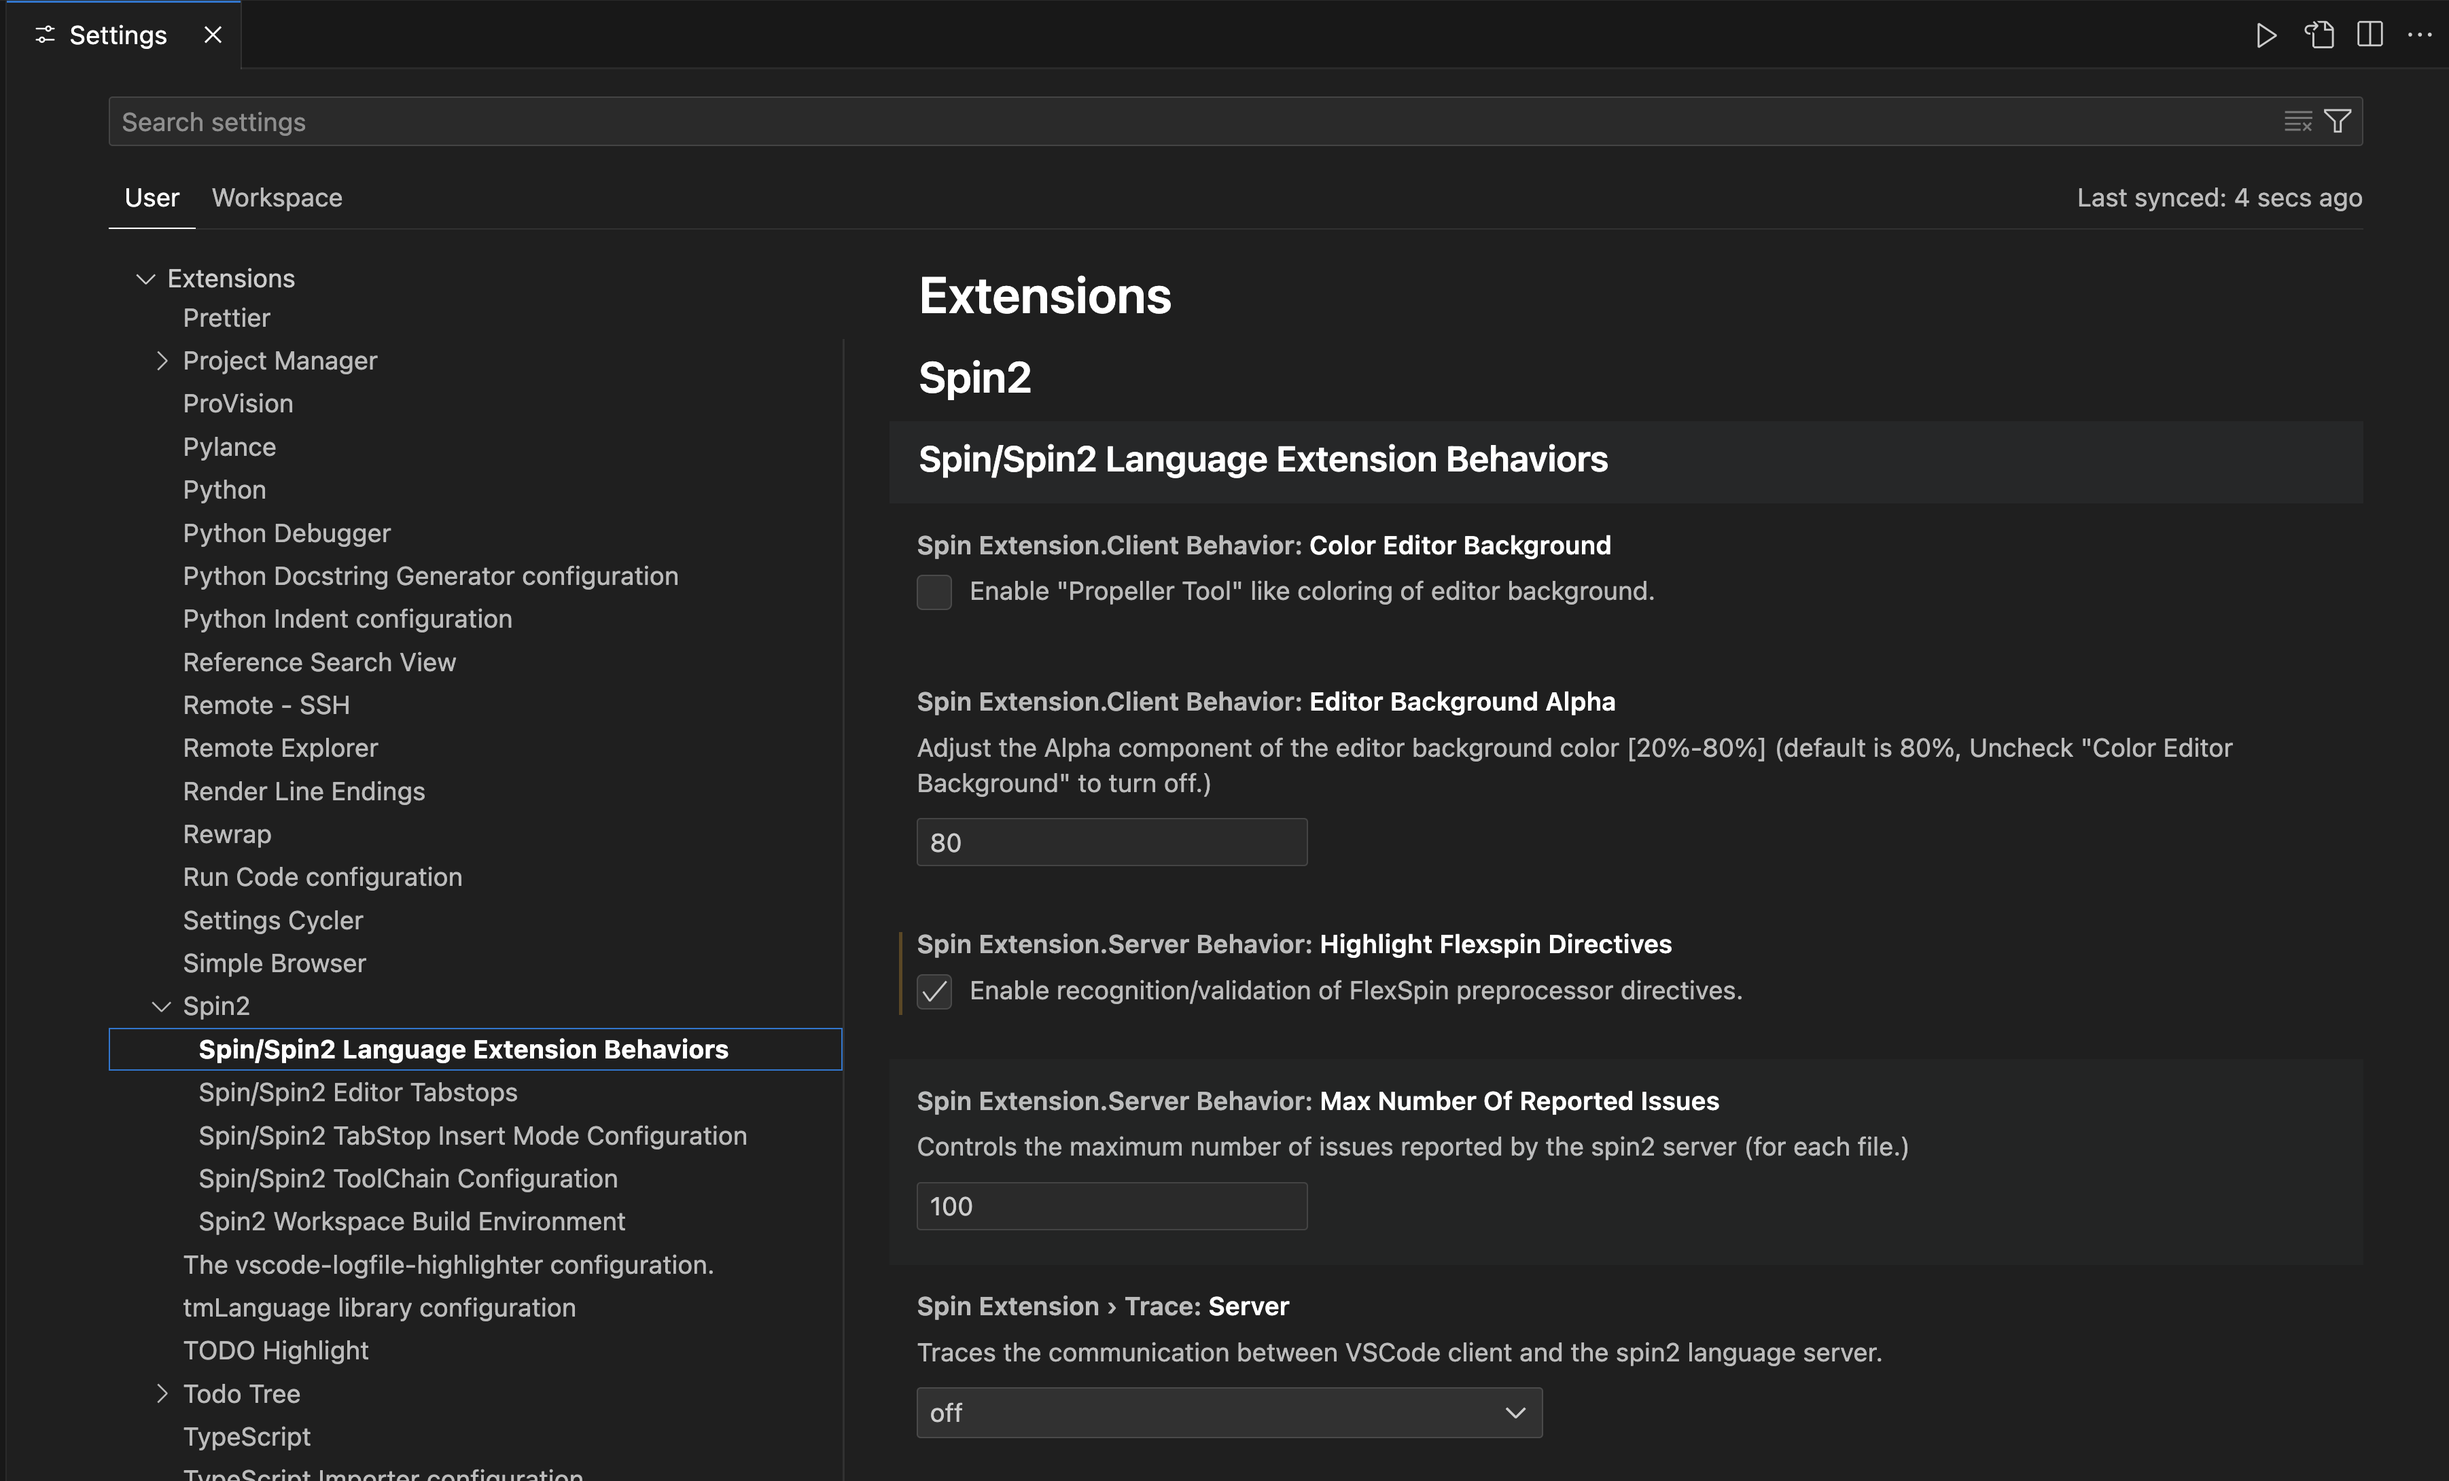
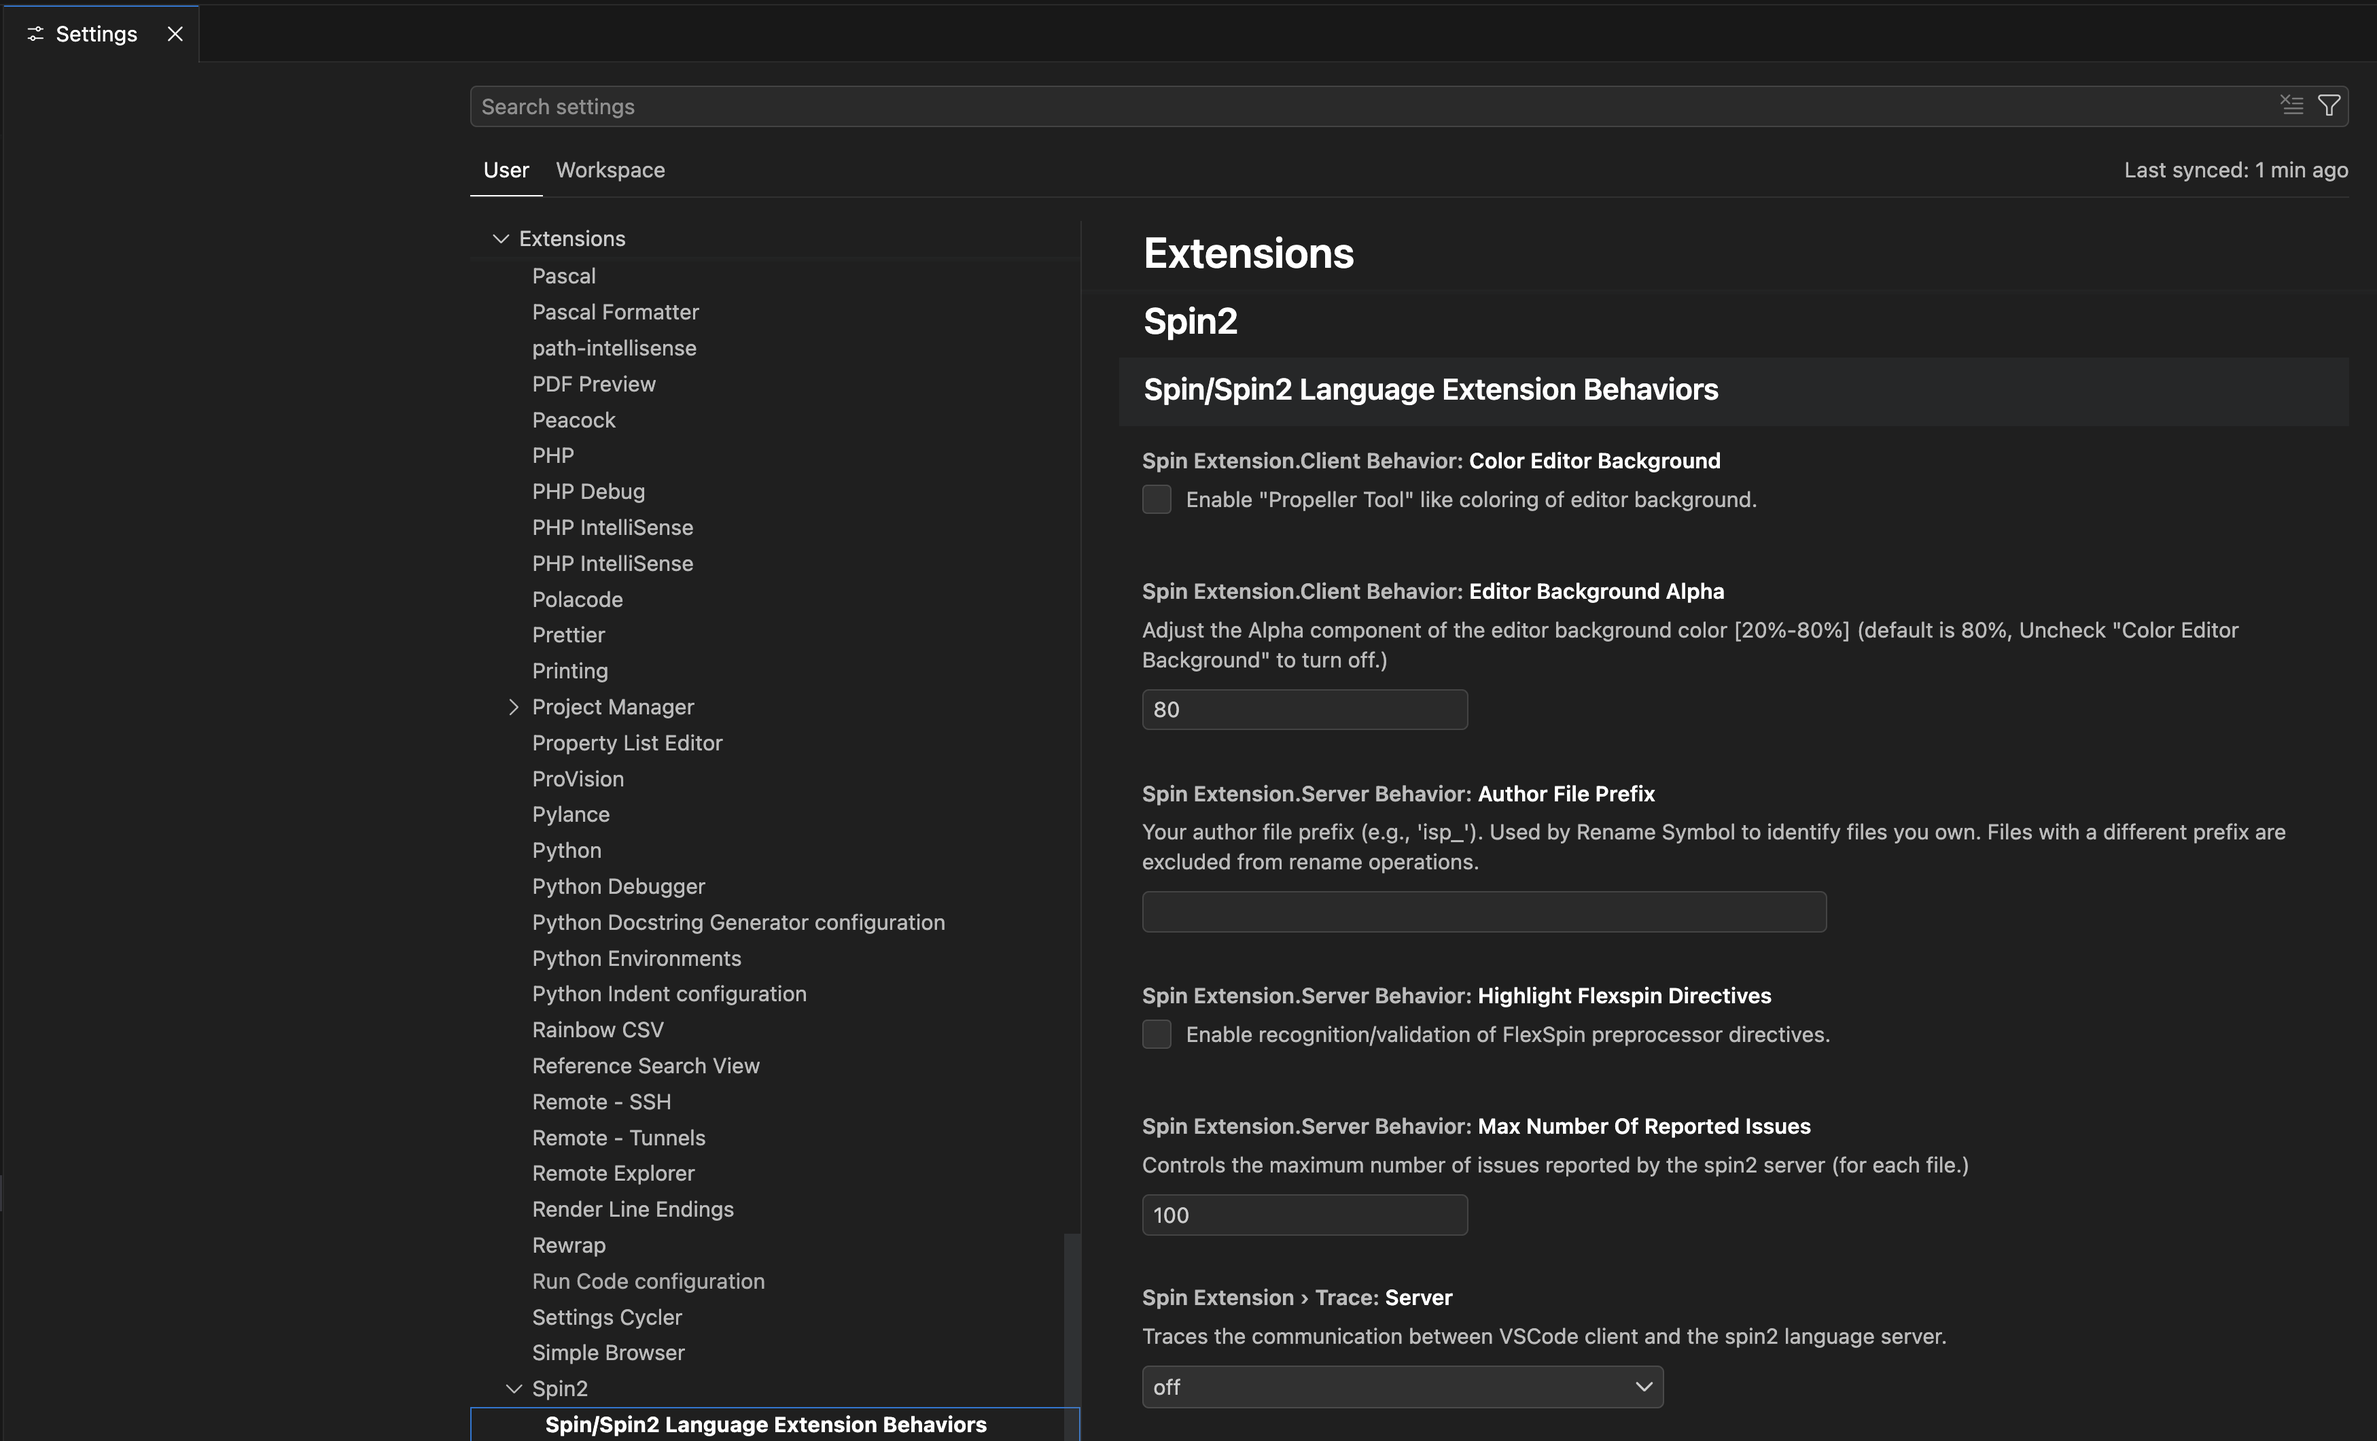
update to our new settings

diff --git a/Spin2-Settings.md b/Spin2-Settings.md
@@ -7,27 +7,37 @@
 
 In general To open the Settings editor, navigate to **[Code]** > **Settings** > **Settings**.
 
-The Spin2 extension settings are in 5 sections.  If when you get to settings and type in "**SpinExt**" as a filter and you'll see the 5 sections of our new Spin2 Extension settings:
+The Spin2 extension settings are in 6 sections.  If when you get to settings and type in "**SpinExt**" as a filter and you'll see the 6 sections of our new Spin2 Extension settings:
 
-## Spin2 Settings - Section 1
+## Spin2 Settings - Section 1 - Extension Behaviors
 
-![Settings 1 of 5](./DOCs/stgs-extn.png)
-**FIGURE 1**: Our three sections, with the first section selected
 
-- **Highlight FlexSpin directives** - This enables support for #if, #else, etc. FlexSpin directives
-- **Author File Prefix** - Your personal file-name prefix (for example, `isp_`). When set, Rename Symbol will skip files that belong to a different author, protecting objects written by other people. Leave this blank to rename across all files. See [File Ownership and Safety](Spin2-code-navigation.md#file-ownership-and-safety) for details.
-- **Max Number of Reported Issues** - This allows you to limit how many messages are shown per file
-- **Trace Server**- bored? want to see how the client interacts with the server then select a value here other then off. (this can slow things down)
+<p align="center">
+  <img alt="Spin/Spin2 Language Extension Behaviors" src="./DOCs/stgs-extn.png" width="800"><br>
+ <p align="center">
+ <caption><B>Figure 1 - Settings Section: Spin/Spin2 Language Extension Behaviors</B></caption><br>
+ </p>
+</p>
+
+
 - **Color Editor Background** - check this to turn on Propeller Tool coloring (you'll also need to adjust the color theme to make this readable!)
 - **Editor Background Alpha** - if you want to something a bit darker then you can adjust this.
+- **Author File Prefix** - Your personal file-name prefix (for example, `isp_`). When set, Rename Symbol will skip files that belong to a different author, protecting objects written by other people. Generally, you don't want to leave this blank if you are using a filenaming conventions for your files. Exception: Leave this blank to rename across all files (but be very careful). See [File Ownership and Safety](Spin2-code-navigation.md#file-ownership-and-safety) for details.
+- **Highlight FlexSpin directives** - This enables support for #if, #else, etc. FlexSpin directives
+- **Max Number of Reported Issues** - This allows you to limit how many messages are shown per file
+- **Trace Server**- bored? want to see how the client interacts with the server then select a value here other then off. (this can slow things down)
 
 
-## Spin2 Settings - Section 2
+## Spin2 Settings - Section 2 - Editor Tabstops
 
 Click on the 2nd section to see:
 
-![Settings 2 of 5](./DOCs/stgs-tabstops.png)
-**FIGURE 2**: with the 2nd section selected
+<p align="center">
+  <img alt="Spin/Spin2 Editor Tabstops" src="./DOCs/stgs-tabstops.png" width="800"><br>
+ <p align="center">
+ <caption><B>Figure 2 - Settings Section: Spin/Spin2 Editor Tabstops</B></caption><br>
+ </p>
+</p>
 
 - Elastic Tabstops **Enable** - check this to turn ON the Elastic Tabstops feature
 - **Iron Sheep** - click on link to adjust the tab columns (default is what the Author uses)
@@ -36,31 +46,58 @@ Click on the 2nd section to see:
 - Elastic Tabstops **Choice** - select the set of tabstops you wish to use
 
 
-## Spin2 Settings - Section 3
+## Spin2 Settings - Section 3 - Insert Mode
 
 Click on the 3rd section to see:
 
-![Settings 3 of 5](./DOCs/stgs-insertMode.png)
-**FIGURE 3**: with the 3rd section selected
+<p align="center">
+  <img alt="Spin/Spin2 Tabstop Insert Mode Configuration" src="./DOCs/stgs-insertMode.png" width="800"><br>
+ <p align="center">
+ <caption><B>Figure 3 - Settings Section: Spin/Spin2 Tabstop Insert Mode Configuration</B></caption><br>
+ </p>
+</p>
+
 
 Insert Mode Adjustments:
 
 - **Enable Align** - Adds Align mode to modes: Insert and Overtype
-- **Label Align Mode**- Change the default label text
-- **Label Insert Mode**- Change the default label text
-- **Label Overtype Mode**- Change the default label text
-- **Overtype Paste** - Alters paste behavior when in Overtype mode
-- **Per Editor** - Let's each editor have it's own current mode setting (Default off)
-- **Secondary Cursor Style** - Adjusts the Overtype cursor
-- **Ternary Cursor Style** - Adjusts the Align cursor
+- **Label Align Mode**- Change the default label text (default: **Align**)
+- **Label Insert Mode**- Change the default label text (default: **Insert**)
+- **Label Overtype Mode**- Change the default label text (default: **Overtype**)
+- **Overtype Paste** - Alters paste behavior when in Overtype mode (default: overtype)
+- **Per Editor** - Let's each editor have it's own current mode setting (Default: off)
+- **Secondary Cursor Style** - Adjusts the Overtype cursor (Default: block)
+- **Ternary Cursor Style** - Adjusts the Align cursor (Default: underline)
 
 
-## Spin2 Settings - Section 4
+## Spin2 Settings - Section 4 - ToolChain Configuration
 
 Click on the 4th section to see:
 
-![Settings 4 of 5](./DOCs/stgs-toolchain1.png)
-**FIGURE 4**: with the 4th section selected (showing first group of entries)
+<p align="center">
+  <img alt="Spin/Spin2 ToolChain Configuration 1of3" src="./DOCs/stgs-toolchain1.png" width="800"><br>
+ <p align="center">
+ <caption><B>Figure 4a - Settings Section: Spin/Spin2 ToolChain Configuration (showing first group of entries)</B></caption><br>
+ </p>
+</p>
+
+and scroll down to:
+
+<p align="center">
+  <img alt="Spin/Spin2 ToolChain Configuration 2of3" src="./DOCs/stgs-toolchain2.png" width="800"><br>
+ <p align="center">
+ <caption><B>Figure 4b - Settings Section: Spin/Spin2 ToolChain Configuration (showing first group of entries)</B></caption><br>
+ </p>
+</p>
+
+and scroll down further to:
+
+<p align="center">
+  <img alt="Spin/Spin2 ToolChain Configuration 3of3" src="./DOCs/stgs-toolchain3.png" width="800"><br>
+ <p align="center">
+ <caption><B>Figure 4c - Settings Section: Spin/Spin2 ToolChain Configuration (showing first group of entries)</B></caption><br>
+ </p>
+</p>
 
 ToolChain Adjustments:
 
@@ -69,11 +106,17 @@ You will be modifying only a couple of the values in this section. The remainder
 - **Enable Advanced Toolchain support** - This enables all of the toolchain behaviors (off by default)
 - **Installations Found** - Lists which compilers were found to be installed on this machine
 - **Selected Compiler** - Choose the compiler you wish to use (set for User/Workspace)
-- **Enable listing output**- Enable/disable .lst file output
+- **Enable listing output**- Enable/disable .lst file output (default: enabled)
 - **Flexspin Debug**- Select between -gbrk and -g
 - **Enable Compatibility PST**- selects which terminal behavior will be used
 - **Enter Terminal After**- select one of [ never, when debug() enabled, or always ]
+- **User Pnut Term TS** - enable to use pnut-term-ts with all compilers (default: disabled, use only with pnut-ts)
 - **User Baudrate**- Enter the comms rate for you application serial debug output
+
+The following affect visiblity and control of non-Parallax PropPlugs:
+
+- **Match Vendor Only** - opens up filter to allow non-parallax Serial Devices
+- **Serial Control** - specifies which control form to use for non-parallax Serial devices
 
 The following are adjusted by clicking on status bar controls:
 
@@ -81,16 +124,10 @@ The following are adjusted by clicking on status bar controls:
 - **Enable Flash**- Click on "Dnld:[RAM/FLASH]" StatusBar control
 
 
-## Spin2 Settings - Section 5
-
-Section 5 is a bit different. Only the very first item **Flexspin loadp2 command-line option: USer Baudrate (Default: 115200)** item is meant to be adjusted by you.  The remaining items in this section are visual feedback to you to see what the **toolchain discovery mechanism** has found with respect to the tools you have installed.
+ The remaining items in this section are visual feedback to you to see what the **toolchain discovery mechanism** has found with respect to the tools you have installed.
 
 In general, you want to look here after installing any compilers to see if they were discovered correctly.
 
-Click on the 5th section to see:
-
-![Settings 5 of 5](./DOCs/stgs-toolchain2.png)
-**FIGURE 5**: with the 5th section selected (showing second group of entries)
 
 The 'paths' entries are all runtime configured. **Please do not adjust any of these paths.**
 
@@ -99,6 +136,30 @@ The 'paths' entries are all runtime configured. **Please do not adjust any of th
 The following is adjusted by clicking on status bar controls:
 
 - **Prop Plug: Selected**- Shows which prop plug you are downloading to. Click on "plug:[name, N/A]" StatusBar control to change this.
+
+## Spin2 Settings - Section 5 - Workspace Build Environment
+
+<p align="center">
+  <img alt="Spin2 Workspace Build Environment" src="./DOCs/stgs-buildEnv.png" width="800"><br>
+ <p align="center">
+ <caption><B>Figure 5 - Settings Section: Spin2 Workspace Build Environment</B></caption><br>
+ </p>
+</p>
+
+**WARNING** there are no user configurable options here. This page was automatically genrated when we added the persistance of our user and workspace tool selections.  You can click on User and Workspace tabs for this section to review the current settings. **But do not change anything here as any changes you make will be overwritten.**
+
+
+## Spin2 Settings - Section 6 - Include Directories
+
+<p align="center">
+  <img alt="Spin2 Include Directories" src="./DOCs/stgs-includeDirs.png" width="800"><br>
+ <p align="center">
+ <caption><B>Figure 6 - Settings Section: Spin2 Include Directories</B></caption><br>
+ </p>
+</p>
+
+Once again this section is pretty much for reference only. You will generally manipulate these values by interacting with the Spin2 Include Directories panel in the left column of your VSCode window. See [Spin2 Extension — Include Directories](./Spin2-Include-Directories.md) for how to use that control.
+
 
 ## Our Spin/Spin2 VSCode Key Mapping
 
